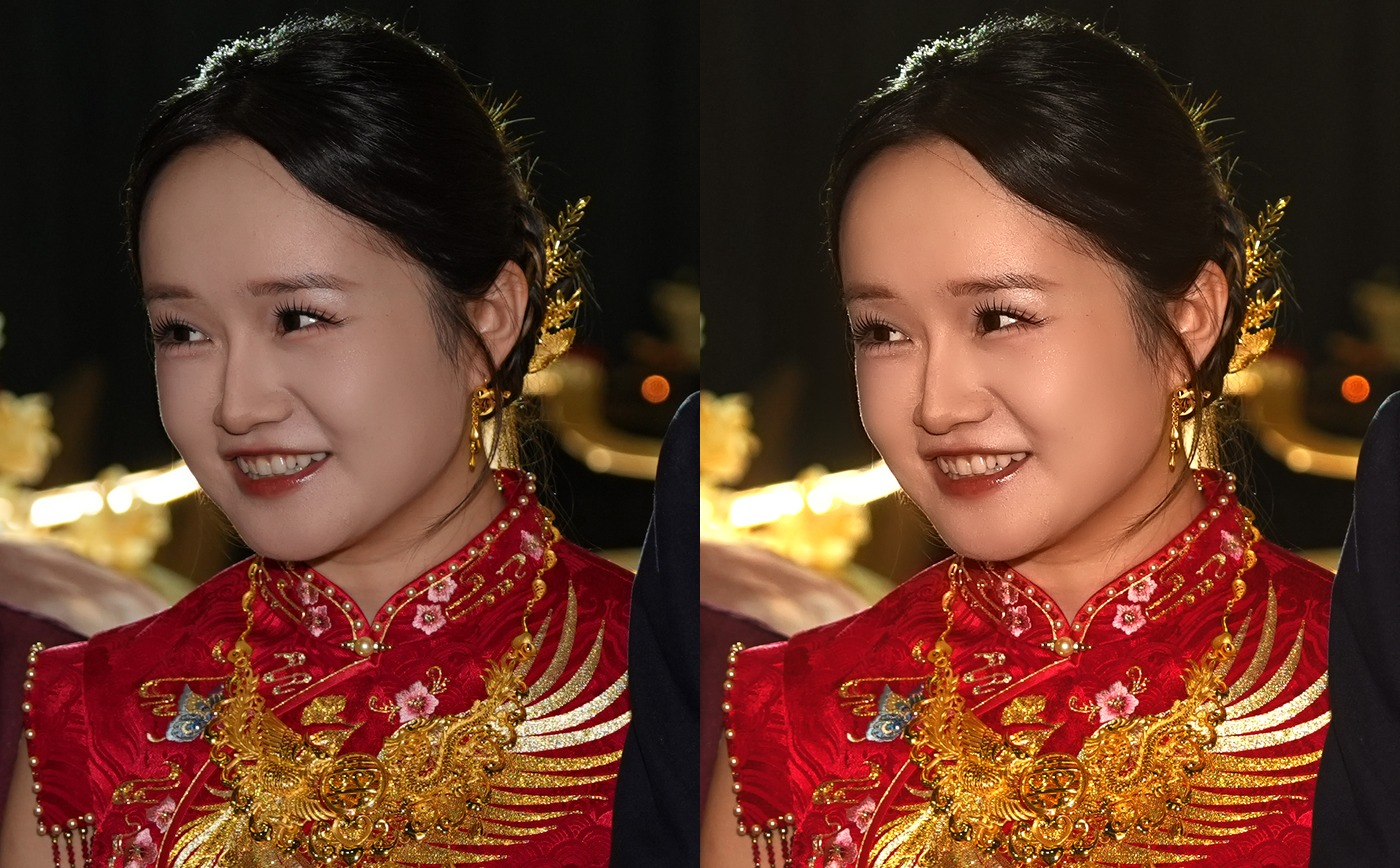
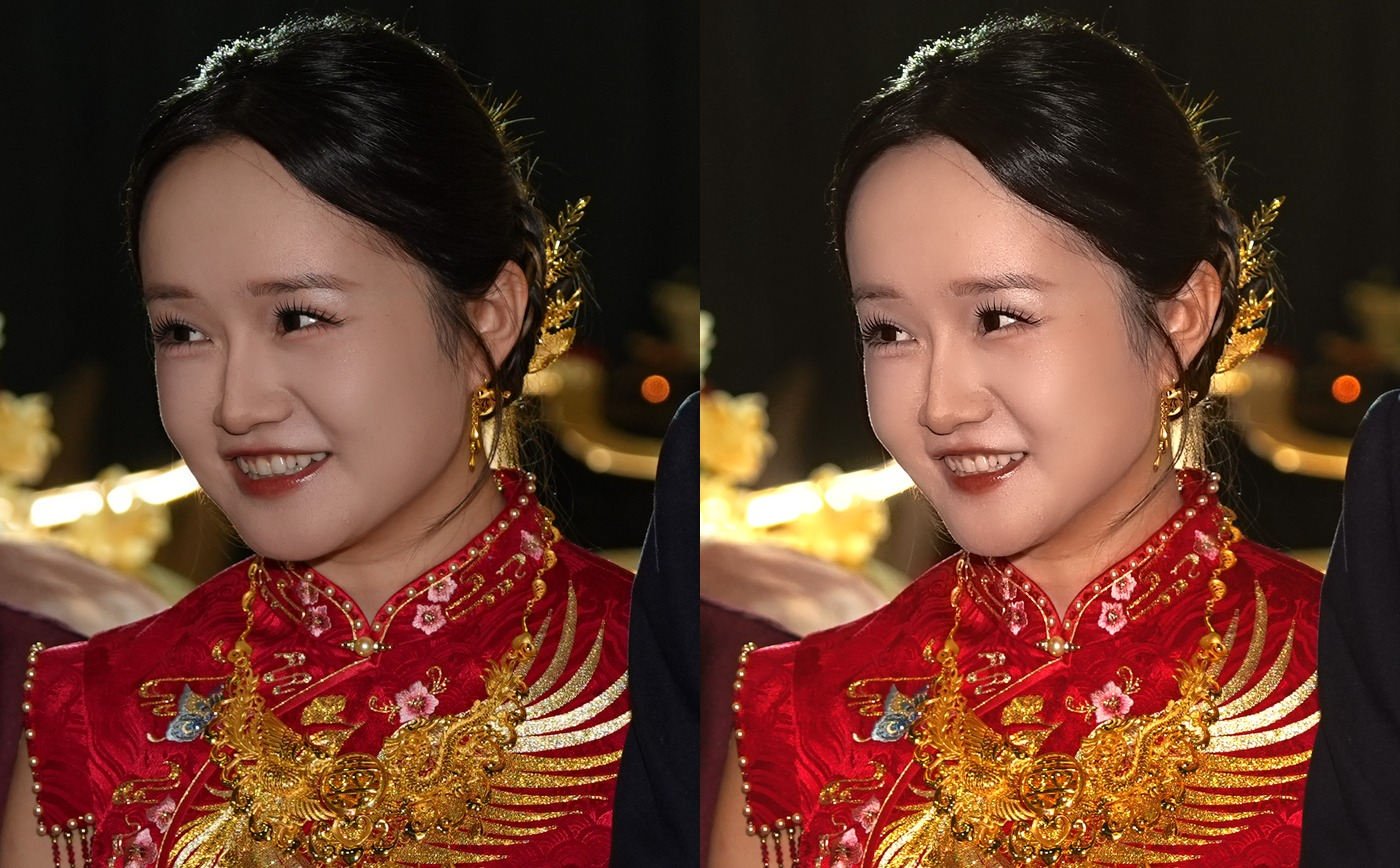
修图微调：新娘瘦身液化与肤色显白
- 液化收窄：颈部约9%、下颌约3%、身体轮廓约3.5%，并轻微收紧颏下
- 显白：肤色识别+区域遮罩提亮并轻降饱和，偏冷方向
- 唇色保护：高Cr高饱和区域不参与提白，口红保持原色
- 高光保护：亮部不再推白，避免额头与金线绣过曝
- 新增颈部像素级前后对比图

Changed region(s): [[0.4914, 0.1244, 1.0, 1.0], [0.6143, 0.0311, 0.7064, 0.1244], [0.8293, 0.0933, 0.8907, 0.1555]]

diff --git a/retouch.py b/retouch.py
@@ -1,6 +1,6 @@
-"""婚宴照片修图：整体调色 + 新娘柔光 + 背景灯光光晕 + 保边柔肤。
+"""婚宴照片修图：几何微调 + 调色打光 + 显白 + 保边柔肤。
 
-新娘面部/身体位置为该张照片实测坐标，换图需重新标定 BRIDE_* 常量。
+坐标均为原图 7008x4672 下实测，换照片必须重新标定 BRIDE_*/WARP_*/SKIN_* 常量。
 """
 
 import numpy as np
@@ -8,24 +8,37 @@ from PIL import Image, ImageFilter
 
 SRC = "微信图片_20260728185148_2671_11.jpg"
 DST = "微信图片_20260728185148_2671_11_retouched.jpg"
+PORTRAIT = "新娘竖构图_retouched.jpg"
 
-# 全图坐标（7008x4672）
 BRIDE_FACE = (3065, 1600, 300, 380)   # cx, cy, rx, ry
 BRIDE_BODY = (3080, 2150, 1150, 1900)
+
+# 液化瘦身：横向收窄（pinch）。amp 为最大收窄比例
+WARP_PINCH = [
+    (2990, 1800, 400, 330, 0.60, 0.032),   # 下半脸 / 下颌线
+    (3060, 1950, 270, 150, 0.80, 0.090),   # 颈部（重点）
+    (3060, 3100, 800, 1600, 0.60, 0.035),  # 身体轮廓
+]
+# 下颌收紧：颏下内容上移，让下颌线更利落
+WARP_LIFT = (2990, 1935, 230, 110, 0.70, 8.0)
+
+# 显白：spatial 遮罩 + 肤色识别 + 高光保护
+SKIN_AREAS = [
+    (3020, 1620, 400, 430, 0.55, 1.00),   # 面部
+    (3050, 1935, 310, 165, 0.80, 1.00),   # 颈部
+    (2650, 3000, 340, 390, 0.70, 0.42),   # 右臂 / 手
+    (3180, 3170, 200, 200, 0.80, 0.42),   # 左手
+]
+SKIN_LIFT = np.array([0.105, 0.115, 0.142], dtype=np.float32)  # 偏冷一点＝显白
+SKIN_DESAT = 0.05
 
 
 def to_arr(img):
     return np.asarray(img, dtype=np.float32)
 
 
-def blur_big(arr, sigma, scale=8):
-    """大半径模糊：先降采样再模糊，速度快且视觉等效。"""
-    h, w = arr.shape[:2]
-    small = Image.fromarray(np.clip(arr, 0, 255).astype(np.uint8)).resize(
-        (w // scale, h // scale), Image.LANCZOS
-    )
-    small = small.filter(ImageFilter.GaussianBlur(sigma / scale))
-    return to_arr(small.resize((w, h), Image.BICUBIC))
+def to_img(arr):
+    return Image.fromarray(np.clip(arr, 0, 255).astype(np.uint8))
 
 
 def smoothstep(x):
@@ -33,11 +46,21 @@ def smoothstep(x):
     return x * x * (3.0 - 2.0 * x)
 
 
-def ellipse_mask(shape, cx, cy, rx, ry, feather=0.45):
+def blur_big(arr, sigma, scale=8):
+    """大半径模糊：降采样后模糊再放大，视觉等效且快得多。"""
+    h, w = arr.shape[:2]
+    small = to_img(arr).resize((w // scale, h // scale), Image.LANCZOS)
+    small = small.filter(ImageFilter.GaussianBlur(sigma / scale))
+    return to_arr(small.resize((w, h), Image.BICUBIC))
+
+
+def ellipse_mask(shape, cx, cy, rx, ry, feather=0.45, xs=None, ys=None):
     h, w = shape
-    ys = np.arange(h, dtype=np.float32)[:, None]
-    xs = np.arange(w, dtype=np.float32)[None, :]
-    d = np.sqrt(((xs - cx) / rx) ** 2 + ((ys - cy) / ry) ** 2)
+    if ys is None:
+        ys = np.arange(h, dtype=np.float32)
+    if xs is None:
+        xs = np.arange(w, dtype=np.float32)
+    d = np.sqrt(((xs[None, :] - cx) / rx) ** 2 + ((ys[:, None] - cy) / ry) ** 2)
     return smoothstep((1.0 + feather - d) / feather)
 
 
@@ -45,98 +68,171 @@ def luma(arr):
     return arr[..., 0] * 0.299 + arr[..., 1] * 0.587 + arr[..., 2] * 0.114
 
 
+def liquify(a):
+    """按 WARP_PINCH / WARP_LIFT 做局部变形，只在受影响的包围盒内重采样。"""
+    H, W = a.shape[:2]
+
+    xs_all = [c[0] - (1 + c[4]) * c[2] for c in WARP_PINCH] + [
+        WARP_LIFT[0] - (1 + WARP_LIFT[4]) * WARP_LIFT[2]
+    ]
+    xe_all = [c[0] + (1 + c[4]) * c[2] for c in WARP_PINCH] + [
+        WARP_LIFT[0] + (1 + WARP_LIFT[4]) * WARP_LIFT[2]
+    ]
+    ys_all = [c[1] - (1 + c[4]) * c[3] for c in WARP_PINCH] + [
+        WARP_LIFT[1] - (1 + WARP_LIFT[4]) * WARP_LIFT[3]
+    ]
+    ye_all = [c[1] + (1 + c[4]) * c[3] for c in WARP_PINCH] + [
+        WARP_LIFT[1] + (1 + WARP_LIFT[4]) * WARP_LIFT[3]
+    ]
+    x0 = max(0, int(min(xs_all)) - 4)
+    x1 = min(W, int(max(xe_all)) + 4)
+    y0 = max(0, int(min(ys_all)) - 4)
+    y1 = min(H, int(max(ye_all)) + 4)
+
+    xs = np.arange(x0, x1, dtype=np.float32)
+    ys = np.arange(y0, y1, dtype=np.float32)
+    shape = (len(ys), len(xs))
+
+    dx = np.zeros(shape, dtype=np.float32)
+    dy = np.zeros(shape, dtype=np.float32)
+
+    for cx, cy, rx, ry, f, amp in WARP_PINCH:
+        m = ellipse_mask(shape, cx, cy, rx, ry, f, xs, ys)
+        dx += amp * m * (xs[None, :] - cx)
+
+    cx, cy, rx, ry, f, amt = WARP_LIFT
+    dy += amt * ellipse_mask(shape, cx, cy, rx, ry, f, xs, ys)
+
+    X = np.clip(xs[None, :] + dx, 0, W - 1.001)
+    Y = np.clip(ys[:, None] + dy, 0, H - 1.001)
+    X0 = X.astype(np.int32)
+    Y0 = Y.astype(np.int32)
+    fx = (X - X0)[..., None]
+    fy = (Y - Y0)[..., None]
+    X1 = X0 + 1
+    Y1 = Y0 + 1
+
+    out = (
+        a[Y0, X0] * (1 - fx) * (1 - fy)
+        + a[Y0, X1] * fx * (1 - fy)
+        + a[Y1, X0] * (1 - fx) * fy
+        + a[Y1, X1] * fx * fy
+    )
+    a[y0:y1, x0:x1] = out
+    return a
+
+
+def skin_color_mask(a):
+    """YCbCr 肤色识别，避开红裙与深色背景。"""
+    R, G, B = a[..., 0], a[..., 1], a[..., 2]
+    Cb = 128 - 0.168736 * R - 0.331264 * G + 0.5 * B
+    Cr = 128 + 0.5 * R - 0.418688 * G - 0.081312 * B
+
+    def band(v, lo, hi, f):
+        return np.clip((v - (lo - f)) / f, 0, 1) * np.clip(((hi + f) - v) / f, 0, 1)
+
+    mx, mn = a.max(axis=2), a.min(axis=2)
+    sat = (mx - mn) / (mx + 1e-3)
+    lip_guard = 1.0 - smoothstep((Cr - 158.0) / 16.0) * smoothstep((sat - 0.34) / 0.14)
+    return (
+        band(Cb, 80, 132, 10)
+        * band(Cr, 132, 176, 10)
+        * np.clip((luma(a) - 35) / 25, 0, 1)
+        * lip_guard
+    )
+
+
 img = Image.open(SRC).convert("RGB")
 W, H = img.size
 a = to_arr(img)
 
+# 1) 几何微调（先做变形，后续遮罩基于成形后的位置）
+a = liquify(a)
+
 bcx, bcy, brx, bry = BRIDE_BODY
 spot = ellipse_mask((H, W), bcx, bcy, brx, bry, feather=0.85)
 
-# 1) 阴影提亮：暗部权重曲线，且主要作用于新娘，背景保留深色氛围
+# 2) 阴影提亮：主要作用于新娘，背景保留深色氛围
 l = luma(a) / 255.0
 shadow_w = (1.0 - smoothstep(l / 0.55)) ** 1.5
 a += (shadow_w * 13.0 * (0.22 + 0.78 * spot))[..., None]
+a = (a - 7.0) * (255.0 / 248.0)          # 黑场下压，避免整体发灰
 
-# 黑场下压，避免整体发灰
-a = (a - 7.0) * (255.0 / 248.0)
-
-# 2) 暖色调 + 轻微 S 曲线对比
+# 3) 暖色调 + 轻 S 曲线对比
 a *= np.array([1.028, 1.002, 0.972], dtype=np.float32)
 n = np.clip(a / 255.0, 0, 1)
 a = (n + 0.10 * (n - 0.5) * (1.0 - np.abs(n - 0.5) * 2.0) * 2.0) * 255.0
 
-# 3) 背景灯光光晕：提取高光做大半径模糊叠加，暖色调
+# 4) 背景灯光光晕
 hl = np.clip((luma(a) - 176.0) / 79.0, 0, 1) ** 1.4
 glow = blur_big((hl[..., None] * a), 70.0)
 a += glow * np.array([0.22, 0.17, 0.10], dtype=np.float32)
 
-# 4) 新娘柔光：椭圆范围内提亮，外围压暗形成视觉引导
+# 5) 新娘柔光 + 周边压暗
 a *= (1.0 + 0.15 * spot)[..., None]
 a += (spot[..., None] * np.array([6.0, 3.5, 1.0], dtype=np.float32))
 a *= (1.0 - 0.22 * (1.0 - spot))[..., None]
+a = np.clip(a, 0, 255)
 
-# 5) 自然饱和度：低饱和区多加，高饱和区（红裙）几乎不动，避免溢色
-mx = a.max(axis=2)
-mn = a.min(axis=2)
+# 6) 显白：提亮 + 轻微降饱和，高光区不再推白以免过曝
+area = np.zeros((H, W), dtype=np.float32)
+for cx, cy, rx, ry, f, wgt in SKIN_AREAS:
+    area = np.maximum(area, wgt * ellipse_mask((H, W), cx, cy, rx, ry, f))
+w_skin = area * skin_color_mask(a) * (1.0 - smoothstep((luma(a) - 198.0) / 57.0))
+a += w_skin[..., None] * SKIN_LIFT * (255.0 - a)
+gray = luma(a)[..., None]
+a = gray + (a - gray) * (1.0 - SKIN_DESAT * w_skin)[..., None]
+
+# 7) 自然饱和度：低饱和区多加，红裙几乎不动，避免溢色
+mx, mn = a.max(axis=2), a.min(axis=2)
 sat = (mx - mn) / (mx + 1e-3)
 gray = luma(a)[..., None]
 a = gray + (a - gray) * (1.0 + 0.22 * (1.0 - smoothstep(sat / 0.55)))[..., None]
-
 a = np.clip(a, 0, 255)
 
-# 6) 面部保边柔肤：仅在低频区域（肤质）混合模糊，边缘（眼睛/唇/发丝）保留
+# 8) 面部保边柔肤：低频（肤质）柔化，边缘（眼睛/唇/发丝）保留
 fcx, fcy, frx, fry = BRIDE_FACE
 pad = 260
 x0, x1 = int(fcx - frx - pad), int(fcx + frx + pad)
 y0, y1 = int(fcy - fry - pad), int(fcy + fry + pad)
 crop = a[y0:y1, x0:x1].copy()
 ch, cw = crop.shape[:2]
-
 fmask = ellipse_mask((ch, cw), fcx - x0, fcy - y0, frx, fry, feather=0.5)
 
-crop_img = Image.fromarray(np.clip(crop, 0, 255).astype(np.uint8))
-soft = to_arr(crop_img.filter(ImageFilter.GaussianBlur(9)))
-
-edge = np.abs(luma(crop) - luma(soft))
-keep = smoothstep((edge - 2.0) / 8.0)            # 边缘越强越保留原图
+soft = to_arr(to_img(crop).filter(ImageFilter.GaussianBlur(9)))
+keep = smoothstep((np.abs(luma(crop) - luma(soft)) - 2.0) / 8.0)
 w_soft = fmask * 0.55 * (1.0 - keep)
 crop = crop * (1 - w_soft[..., None]) + soft * w_soft[..., None]
 
 # 色度柔化：减轻肤色不匀，不动亮度细节
 y = luma(crop)[..., None]
 chroma = crop - y
-chroma_s = to_arr(
-    Image.fromarray(np.clip(chroma + 128, 0, 255).astype(np.uint8)).filter(
-        ImageFilter.GaussianBlur(16)
-    )
-) - 128
+chroma_s = to_arr(to_img(chroma + 128).filter(ImageFilter.GaussianBlur(16))) - 128
 wc = (fmask * 0.6)[..., None]
 crop = y + chroma * (1 - wc) + chroma_s * wc
 
-# 柔肤后回补清晰度，让眼睛与唇部不发糊
-sharp_base = to_arr(
-    Image.fromarray(np.clip(crop, 0, 255).astype(np.uint8)).filter(
-        ImageFilter.GaussianBlur(2)
-    )
-)
-crop += (crop - sharp_base) * (fmask * 0.55)[..., None]
-
-# 面部轻提亮 + 一点暖光
-crop *= (1.0 + 0.05 * fmask)[..., None]
-crop += (fmask[..., None] * np.array([4.0, 2.0, 0.0], dtype=np.float32))
+# 柔肤后回补清晰度，避免眼唇发糊
+crop += (crop - to_arr(to_img(crop).filter(ImageFilter.GaussianBlur(2)))) * (fmask * 0.55)[..., None]
+crop *= (1.0 + 0.04 * fmask)[..., None]
 
 a[y0:y1, x0:x1] = crop
 a = np.clip(a, 0, 255)
 
-out = Image.fromarray(a.astype(np.uint8))
+out = to_img(a)
 out.save(DST, quality=97, subsampling=0, optimize=True)
 print("saved", DST, out.size)
 
-# 对比图与面部特写，便于快速检查效果
+# 3:4 竖构图，去掉前景遮挡人物
+pcx, ptop, pw = 3090, 780, 2050
+ph = int(pw * 4 / 3)
+out.crop((pcx - pw // 2, ptop, pcx + pw // 2, ptop + ph)).save(
+    PORTRAIT, quality=97, subsampling=0
+)
+print("saved", PORTRAIT)
+
+
 def side_by_side(before, after, path, box=None, width=1400):
-    b, af = before, after
-    if box:
-        b, af = b.crop(box), af.crop(box)
+    b, af = (before, after) if not box else (before.crop(box), after.crop(box))
     h = int(width / 2 * b.size[1] / b.size[0])
     canvas = Image.new("RGB", (width, h), "black")
     canvas.paste(b.resize((width // 2, h), Image.LANCZOS), (0, 0))
@@ -147,3 +243,4 @@ def side_by_side(before, after, path, box=None, width=1400):
 
 side_by_side(img, out, "compare_full.jpg")
 side_by_side(img, out, "compare_face.jpg", box=(2500, 950, 3750, 2500))
+side_by_side(img, out, "compare_neck.jpg", box=(2620, 1550, 3420, 2150), width=1600)
